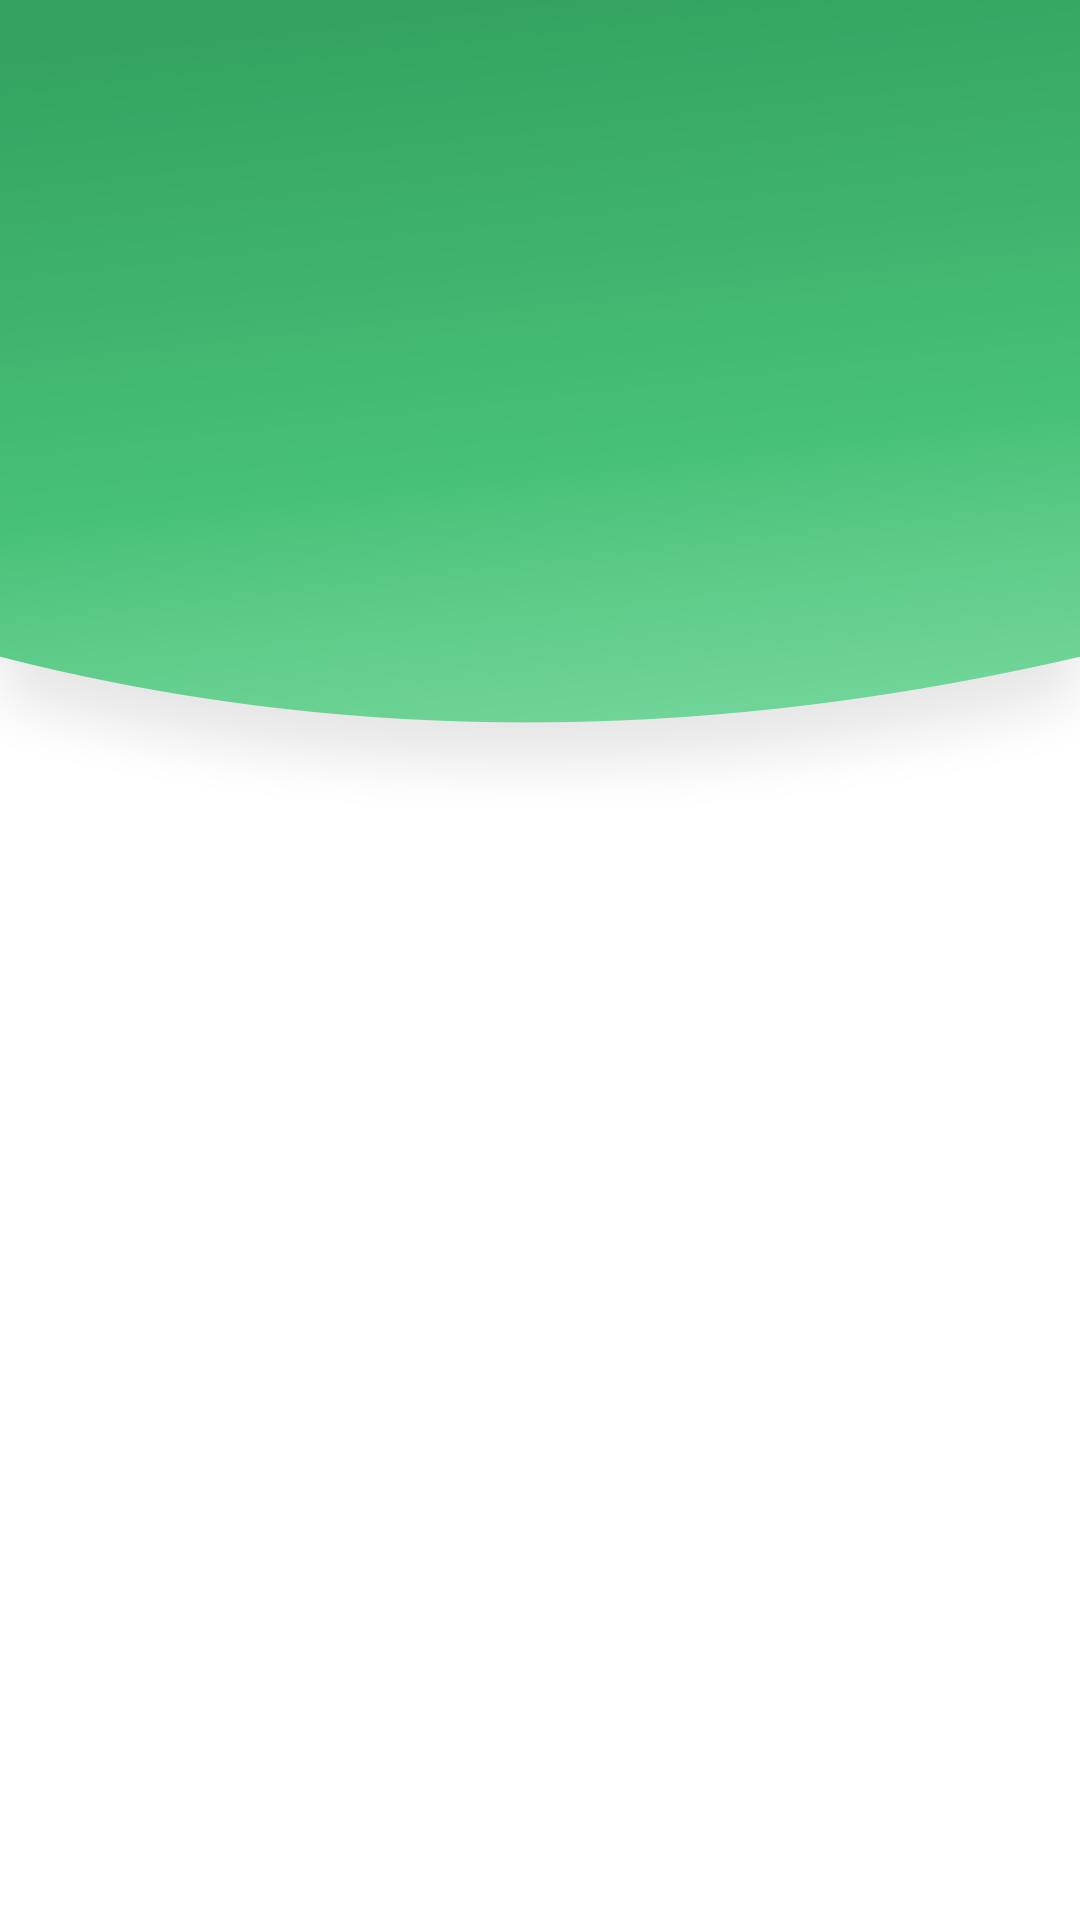
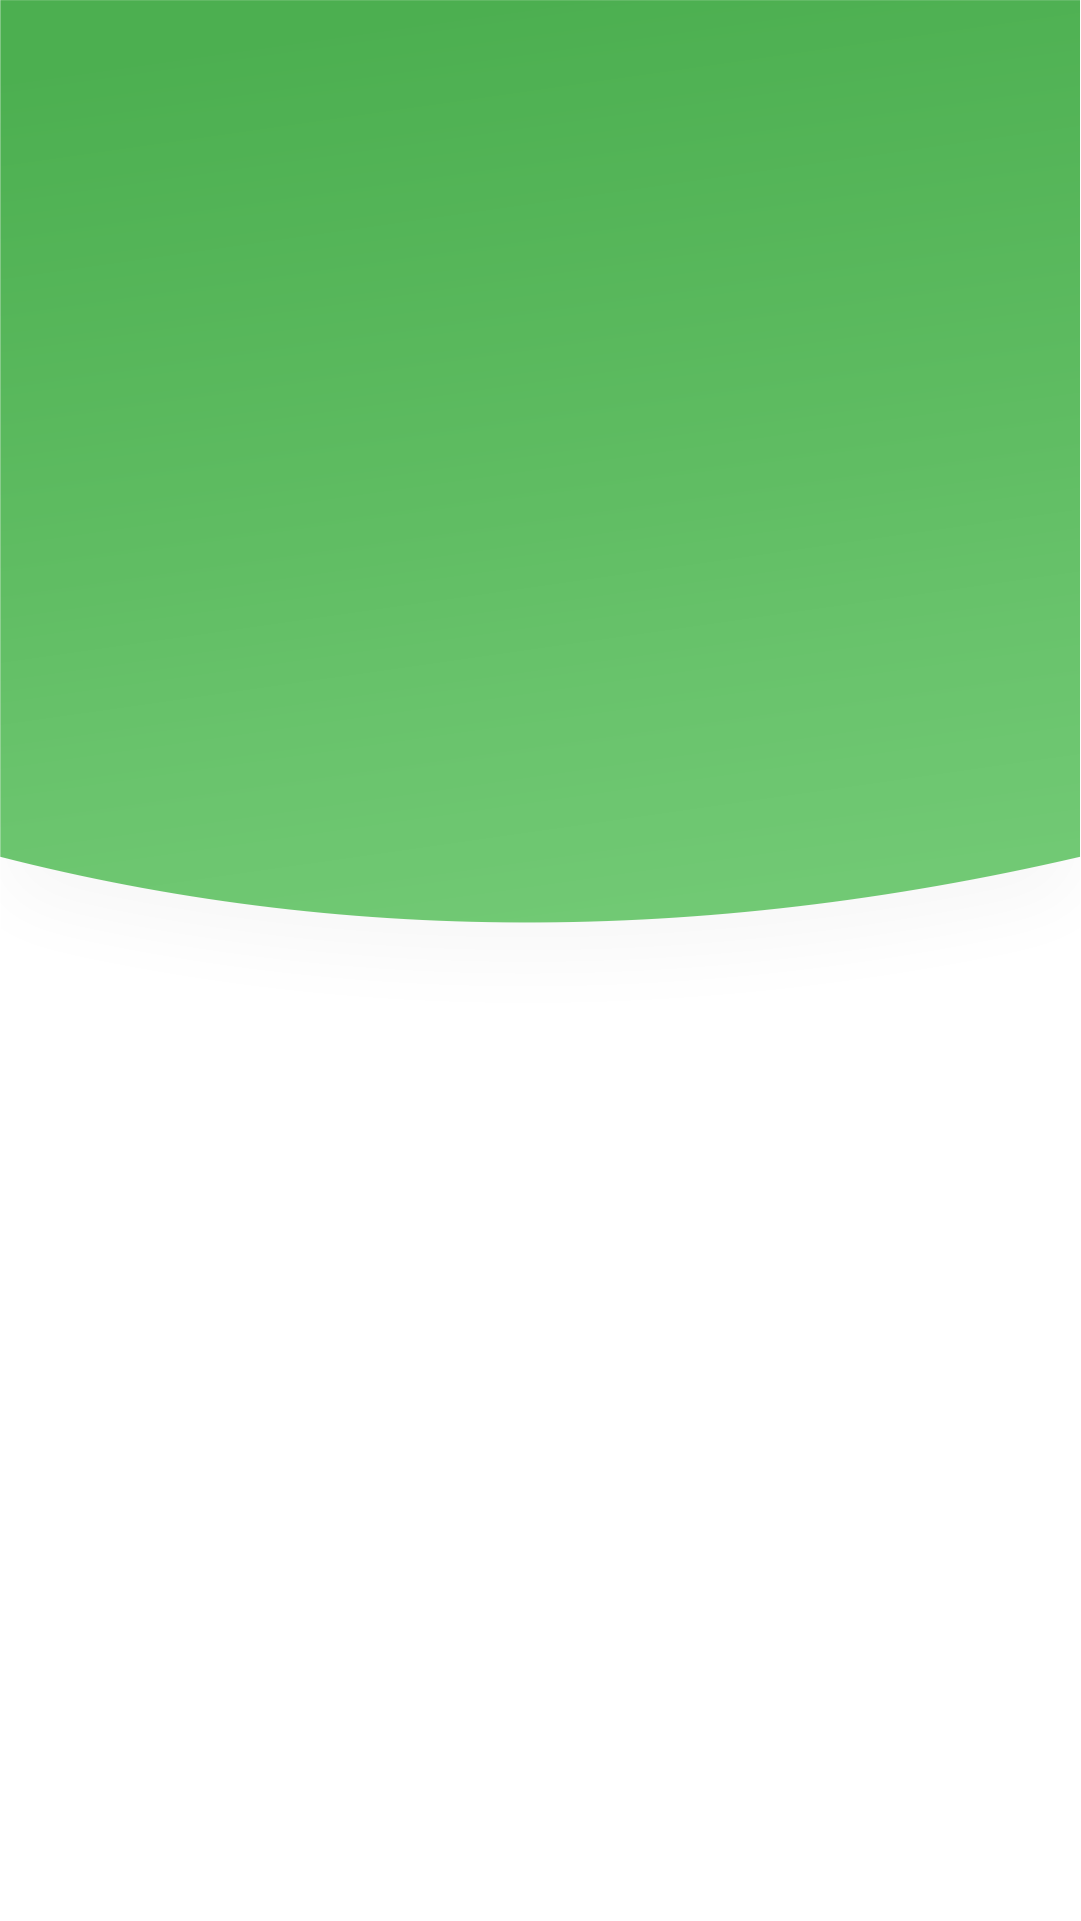
Added background image on home and detail page

Changed region(s): [[0.0, 0.2188, 1.0, 0.5], [0.6722, 0.0, 1.0, 0.0625]]

diff --git a/food_ron_ai/lib/ui/ImageDetails.dart b/food_ron_ai/lib/ui/ImageDetails.dart
@@ -451,7 +451,10 @@ class _ImageDetailsState extends State<ImageDetails>
         onPressed: (() {
           navigateToHomePage();
         }),
-        child: Icon(Icons.arrow_left));
+        child: Icon(
+          Icons.arrow_left,
+          color: Colors.white,
+        ));
   }
 
   Widget mainTitle() {
@@ -461,7 +464,7 @@ class _ImageDetailsState extends State<ImageDetails>
         child: Text(
           "Nutritonal values",
           style: TextStyle(
-              color: Color.fromRGBO(45, 46, 51, 1),
+              color: Colors.white, //Color.fromRGBO(45, 46, 51, 1),
               fontSize: 20,
               fontWeight: FontWeight.bold),
         ),
@@ -517,7 +520,7 @@ class _ImageDetailsState extends State<ImageDetails>
                     return BarTooltipItem(
                       rod.y.round().toString(),
                       TextStyle(
-                        color: Colors.green,
+                        color: Colors.white,
                         fontWeight: FontWeight.bold,
                       ),
                     );
@@ -529,7 +532,7 @@ class _ImageDetailsState extends State<ImageDetails>
                 bottomTitles: SideTitles(
                   showTitles: true,
                   textStyle: TextStyle(
-                      color: const Color(0xff7589a2),
+                      color: Colors.white, //const Color(0xff7589a2),
                       fontWeight: FontWeight.bold,
                       fontSize: 14),
                   margin: 20,
@@ -556,29 +559,26 @@ class _ImageDetailsState extends State<ImageDetails>
               barGroups: [
                 BarChartGroupData(x: 0, barRods: [
                   BarChartRodData(
-                      y: getTotalCalories(snapshot.data),
-                      color: Colors.lightBlueAccent)
+                      y: getTotalCalories(snapshot.data), color: Colors.white)
                 ], showingTooltipIndicators: [
                   0
                 ]),
                 BarChartGroupData(x: 1, barRods: [
                   BarChartRodData(
                       y: getTotalCarbohydrates(snapshot.data),
-                      color: Colors.lightBlueAccent)
+                      color: Colors.white)
                 ], showingTooltipIndicators: [
                   0
                 ]),
                 BarChartGroupData(x: 2, barRods: [
                   BarChartRodData(
-                      y: getTotalFats(snapshot.data),
-                      color: Colors.lightBlueAccent)
+                      y: getTotalFats(snapshot.data), color: Colors.white)
                 ], showingTooltipIndicators: [
                   0
                 ]),
                 BarChartGroupData(x: 3, barRods: [
                   BarChartRodData(
-                      y: getTotalProtein(snapshot.data),
-                      color: Colors.lightBlueAccent)
+                      y: getTotalProtein(snapshot.data), color: Colors.white)
                 ], showingTooltipIndicators: [
                   0
                 ]),
@@ -762,19 +762,20 @@ class _ImageDetailsState extends State<ImageDetails>
         context: context,
         builder: (context) {
           return Dialog(
-            shape: RoundedRectangleBorder(borderRadius: BorderRadius.circular(20)),
-            child: Container(
-              height: MediaQuery.of(context).size.height/1.5,
-            decoration: BoxDecoration(
-              borderRadius: BorderRadius.all(Radius.circular(20)),
-              image: DecorationImage(
-                fit: BoxFit.cover,
-                image: MemoryImage(
-                  base64Decode(imageUploadResponse.base64InfImage),
+              shape: RoundedRectangleBorder(
+                  borderRadius: BorderRadius.circular(20)),
+              child: Container(
+                height: MediaQuery.of(context).size.height / 1.5,
+                decoration: BoxDecoration(
+                  borderRadius: BorderRadius.all(Radius.circular(20)),
+                  image: DecorationImage(
+                    fit: BoxFit.cover,
+                    image: MemoryImage(
+                      base64Decode(imageUploadResponse.base64InfImage),
+                    ),
+                  ),
                 ),
-              ),
-            ),
-          ));
+              ));
         });
   }
 
@@ -785,10 +786,10 @@ class _ImageDetailsState extends State<ImageDetails>
         child: Scaffold(
           body: Stack(
             children: <Widget>[
-              // Container(
-              // child: new Image.asset('images/screen.png',
-              //     fit: BoxFit.cover)),
-
+              Container(
+                  width: MediaQuery.of(context).size.width,
+                  child:
+                      new Image.asset('images/screen2.png', fit: BoxFit.cover)),
               Column(
                 crossAxisAlignment: CrossAxisAlignment.start,
                 mainAxisSize: MainAxisSize.max,

diff --git a/food_ron_ai/lib/ui/HomePage.dart b/food_ron_ai/lib/ui/HomePage.dart
@@ -811,12 +811,12 @@ class _HomeScreenState extends State<HomeScreen> with TickerProviderStateMixin {
           context: context,
           builder: (_) => NetworkGiffyDialog(
                 image: Image.asset('images/greenbg.gif', fit: BoxFit.cover),
-                title: Text('No Internet Connection',
+                title: Text('No Internet Connection!',
                     textAlign: TextAlign.center,
                     style:
                         TextStyle(fontSize: 22.0, fontWeight: FontWeight.w600)),
                 description: Text(
-                  'Please connect your device to internet',
+                  'Please connect your device to internet.',
                   textAlign: TextAlign.center,
                 ),
                 entryAnimation: EntryAnimation.DEFAULT,
@@ -935,6 +935,7 @@ class _HomeScreenState extends State<HomeScreen> with TickerProviderStateMixin {
                         }
                       }
                     } on SocketException catch (_) {
+                      _controller.reverse();
                       dialog();
                     }
                   },
